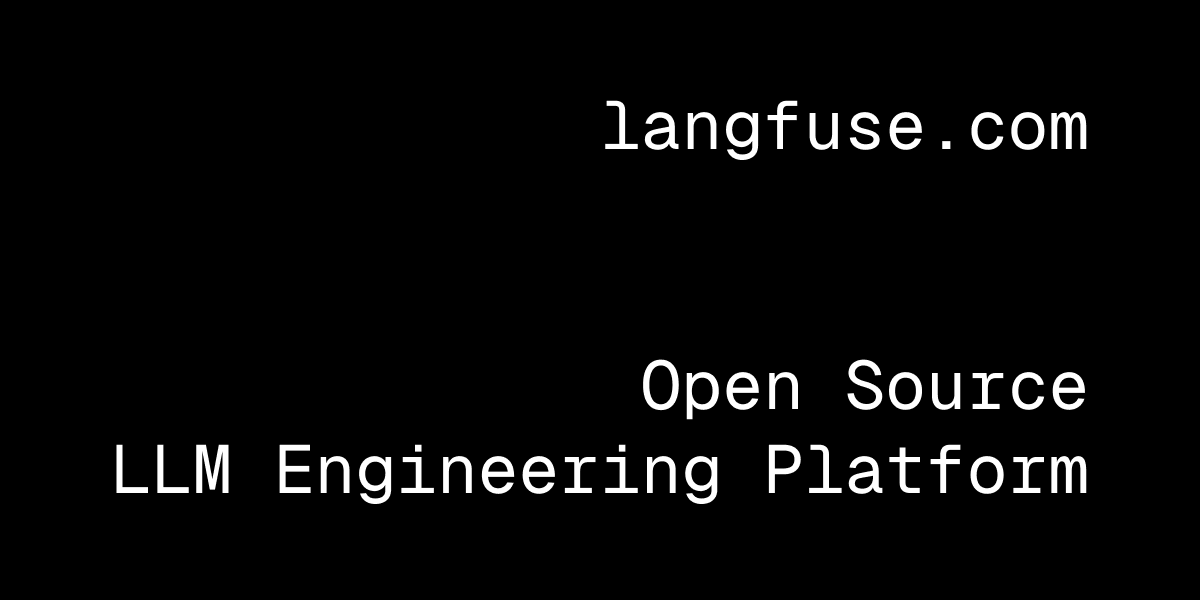
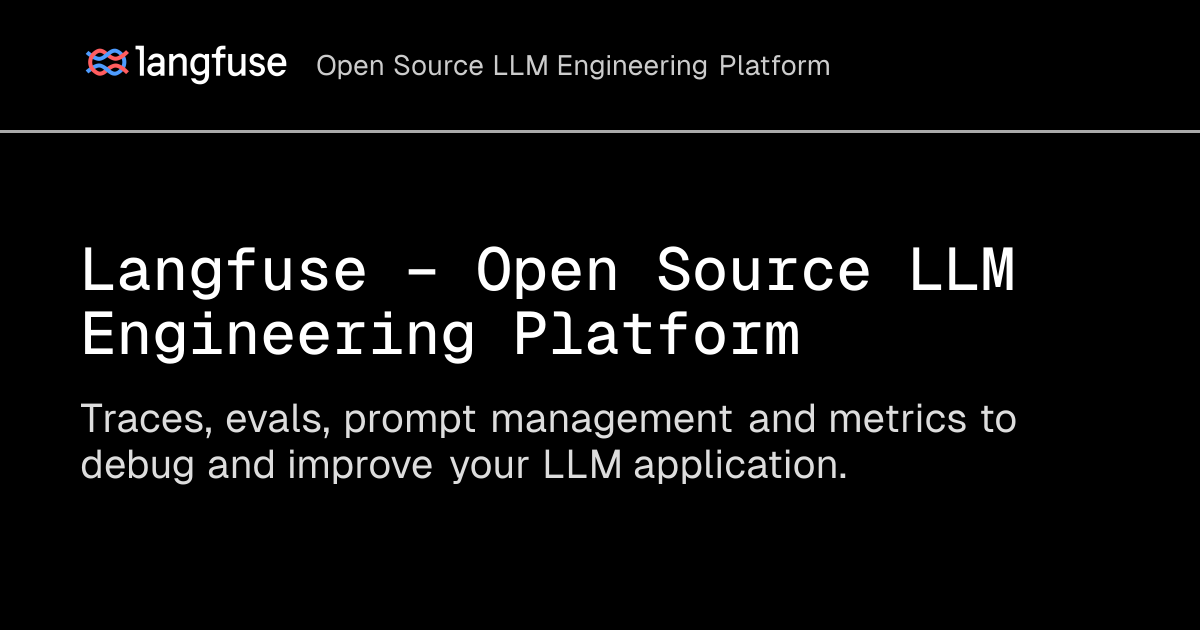
fix og images

diff --git a/app/api/og/route.tsx b/app/api/og/route.tsx
@@ -3,10 +3,22 @@ import { NextRequest } from "next/server";
 
 export const runtime = "edge";
 
+/** White wordmark PNG (2233×527); renders on the black OG card background. */
+const WORDMARK_PATH =
+  "/brand-assets/wordmark/Langfuse/dark/langfuse-wordart-white.png";
+const WORDMARK_ASPECT = 2233 / 527;
+
+function wordmarkSize(heightPx: number) {
+  return {
+    height: heightPx,
+    width: Math.round(heightPx * WORDMARK_ASPECT),
+  };
+}
+
 export async function GET(request: NextRequest) {
   const base = new URL("/", request.url).toString();
-  const imageData = (await fetch(
-    new URL("/icon256.png", base)
+  const wordmarkData = (await fetch(
+    new URL(WORDMARK_PATH, base)
   ).then((res) => res.arrayBuffer())) as string;
   const fontGeistMono = await fetch(
     new URL("/fonts/GeistMono-Medium.ttf", base)
@@ -28,6 +40,8 @@ export async function GET(request: NextRequest) {
 
   const section = searchParams.get("section") ?? undefined;
 
+  const headerWordmark = wordmarkSize(50);
+
   return new ImageResponse(
     (
       <div
@@ -44,27 +58,22 @@ export async function GET(request: NextRequest) {
           fontSize: 40,
         }}
       >
-        {title !== "Langfuse" ? (
-          <div
-            style={{
-              display: "flex",
-              gap: 20,
-              alignItems: "center",
-              padding: 40,
-              paddingLeft: 80,
-              paddingRight: 80,
-              borderBottom: "3px solid #aaa",
-            }}
-          >
-            <img width="50" height="50" src={imageData} />
-            <span style={{ fontWeight: 800 }}>
-              Langfuse
-              <span style={{ marginLeft: 10, fontWeight: 400 }}>
-                – Open Source LLM Engineering Platform
-              </span>
-            </span>
-          </div>
-        ) : null}
+        <div
+          style={{
+            display: "flex",
+            gap: 24,
+            alignItems: "center",
+            padding: 40,
+            paddingLeft: 80,
+            paddingRight: 80,
+            borderBottom: "3px solid #aaa",
+          }}
+        >
+          <img {...headerWordmark} src={wordmarkData} />
+          <span style={{ fontWeight: 400, fontSize: 28, color: "#ccc" }}>
+            Open Source LLM Engineering Platform
+          </span>
+        </div>
         <div
           style={{
             display: "flex",

diff --git a/app/layout.tsx b/app/layout.tsx
@@ -4,17 +4,22 @@ import { RootProvider } from "fumadocs-ui/provider/next";
 import { GeistSans } from "geist/font/sans";
 import { GeistMono } from "geist/font/mono";
 import { DevAriaHiddenConsoleFilter } from "@/components/DevAriaHiddenConsoleFilter";
+import {
+  buildDefaultSiteOgImageUrl,
+  SITE_DEFAULT_OG_DESCRIPTION,
+} from "@/lib/og-url";
 import { PostHogProvider } from "@/components/analytics/PostHogProvider";
 import { Hubspot } from "@/components/analytics/hubspot";
 import "../style.css";
 import "@vidstack/react/player/styles/base.css";
 import "../src/overrides.css";
 
+const defaultOgImageUrl = buildDefaultSiteOgImageUrl();
+
 export const metadata: Metadata = {
   metadataBase: new URL("https://langfuse.com"),
   title: { default: "Langfuse", template: "%s - Langfuse" },
-  description:
-    "Traces, evals, prompt management and metrics to debug and improve your LLM application.",
+  description: SITE_DEFAULT_OG_DESCRIPTION,
   icons: {
     icon: [
       { url: "/favicon-16x16.png", sizes: "16x16", type: "image/png" },
@@ -25,12 +30,12 @@ export const metadata: Metadata = {
     shortcut: ["/favicon.ico"],
   },
   openGraph: {
-    images: [{ url: "https://langfuse.com/og.png" }],
+    images: [{ url: defaultOgImageUrl }],
   },
   twitter: {
     card: "summary_large_image",
     site: "langfuse.com",
-    images: [{ url: "https://langfuse.com/og.png" }],
+    images: [{ url: defaultOgImageUrl }],
   },
 };
 

diff --git a/lib/og-url.ts b/lib/og-url.ts
@@ -1,5 +1,17 @@
 const BASE_URL = "https://langfuse.com";
 
+/** Default site description; keep in sync with `app/layout.tsx` metadata.description. */
+export const SITE_DEFAULT_OG_DESCRIPTION =
+  "Traces, evals, prompt management and metrics to debug and improve your LLM application.";
+
+/** Root layout default Open Graph / Twitter image (dynamic wordmark card). */
+export function buildDefaultSiteOgImageUrl(): string {
+  return `${BASE_URL}/api/og?${new URLSearchParams({
+    title: "Langfuse – Open Source LLM Engineering Platform",
+    description: SITE_DEFAULT_OG_DESCRIPTION,
+  }).toString()}`;
+}
+
 /** Returns the absolute canonical URL for a given site-relative path (e.g. "/docs/foo"). */
 export function buildPageUrl(path: string): string {
   return `${BASE_URL}${path}`;
